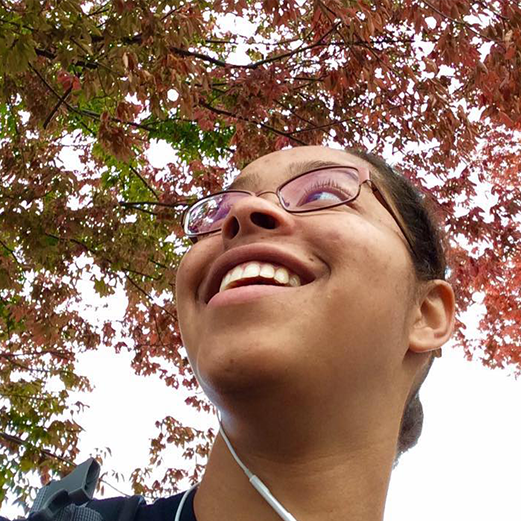
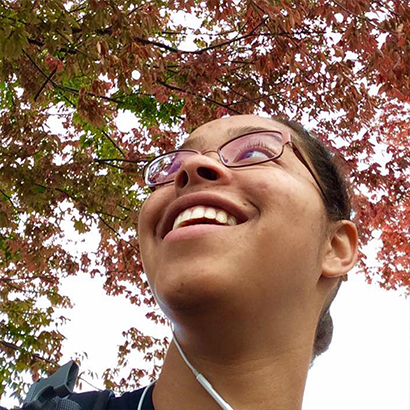
Fixed the image descriptions being larger than the images on resize

diff --git a/css/creative.css b/css/creative.css
@@ -260,7 +260,6 @@ header .header-content .header-content-inner p {
 }
 
 .portfolio-box {
-
     display: block;
     position: relative;
     margin: 0 auto;
@@ -272,6 +271,7 @@ header .header-content .header-content-inner p {
     display: block;
     position: absolute;
     bottom: 0;
+    max-width:410px; /* hardcoded to image size */
     width: 100%;
     height: 100%;
     text-align: center;
